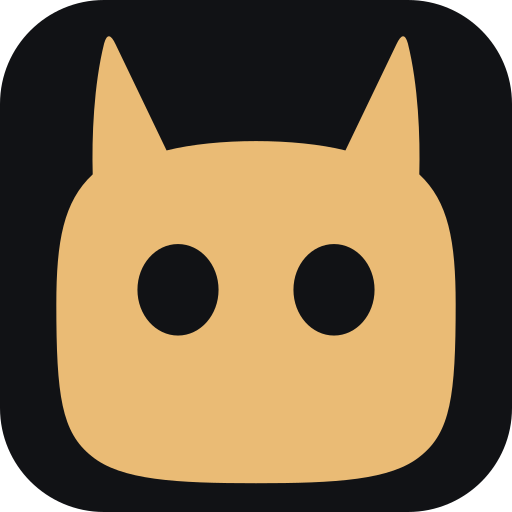
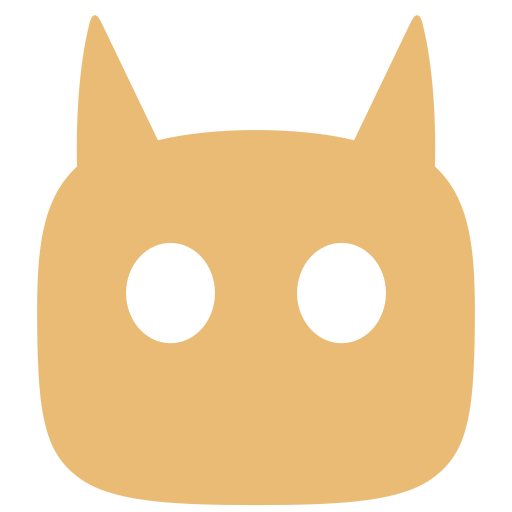
Ícone do PC: gato sem fundo ocupando todo o quadrado, do tamanho dos outros da barra

diff --git a/docs/progresso.md b/docs/progresso.md
@@ -1398,4 +1398,4 @@ Nota: o primeiro APK desta versão (não publicado) saiu com um defeito meu (o m
 ## 0.47.9 (versionCode 103) — logo nova em todo lugar
 - Logo da pessoa (`logo/assinatura/`: gato âmbar `#EABB75` sobre `#111215`) aplicada: ícone do celular (adaptive foreground/background e `ic_launcher*.webp`, ícone de notificação monocromático `mybots_notification.xml`), tela de abertura (`splashscreen_logo` em todas as densidades; fundo `#111215` no claro e no escuro), `mobile/assets/brand/*`, ícones do Electron/Tauri, `public/icon.svg` e README (`docs/screenshots/logo.png`, `icone.png`). Fonte dos PNGs: `logo/assinatura/icone.png`.
 - Não conferido: aparência real no launcher do celular e na barra de tarefas do Hyprland.
-- Ajuste do ícone do PC (sem mudar o APK): o gato agora ocupa quase todo o quadrado (`desktop/electron/icon.png`, Tauri e `~/.local/share/icons/.../mybots.png`), porque com margem grande parecia pequeno na barra. A bandeja e a barra só pegam o ícone novo depois de reabrir a janela do MyBots.
+- Ajuste do ícone do PC (sem mudar o APK): o gato agora ocupa todo o quadrado, sem fundo (o fundo escuro sumia na barra e o gato parecia pequeno) (`desktop/electron/icon.png`, Tauri e `~/.local/share/icons/.../mybots.png`), porque com margem grande parecia pequeno na barra. A bandeja e a barra só pegam o ícone novo depois de reabrir a janela do MyBots.
